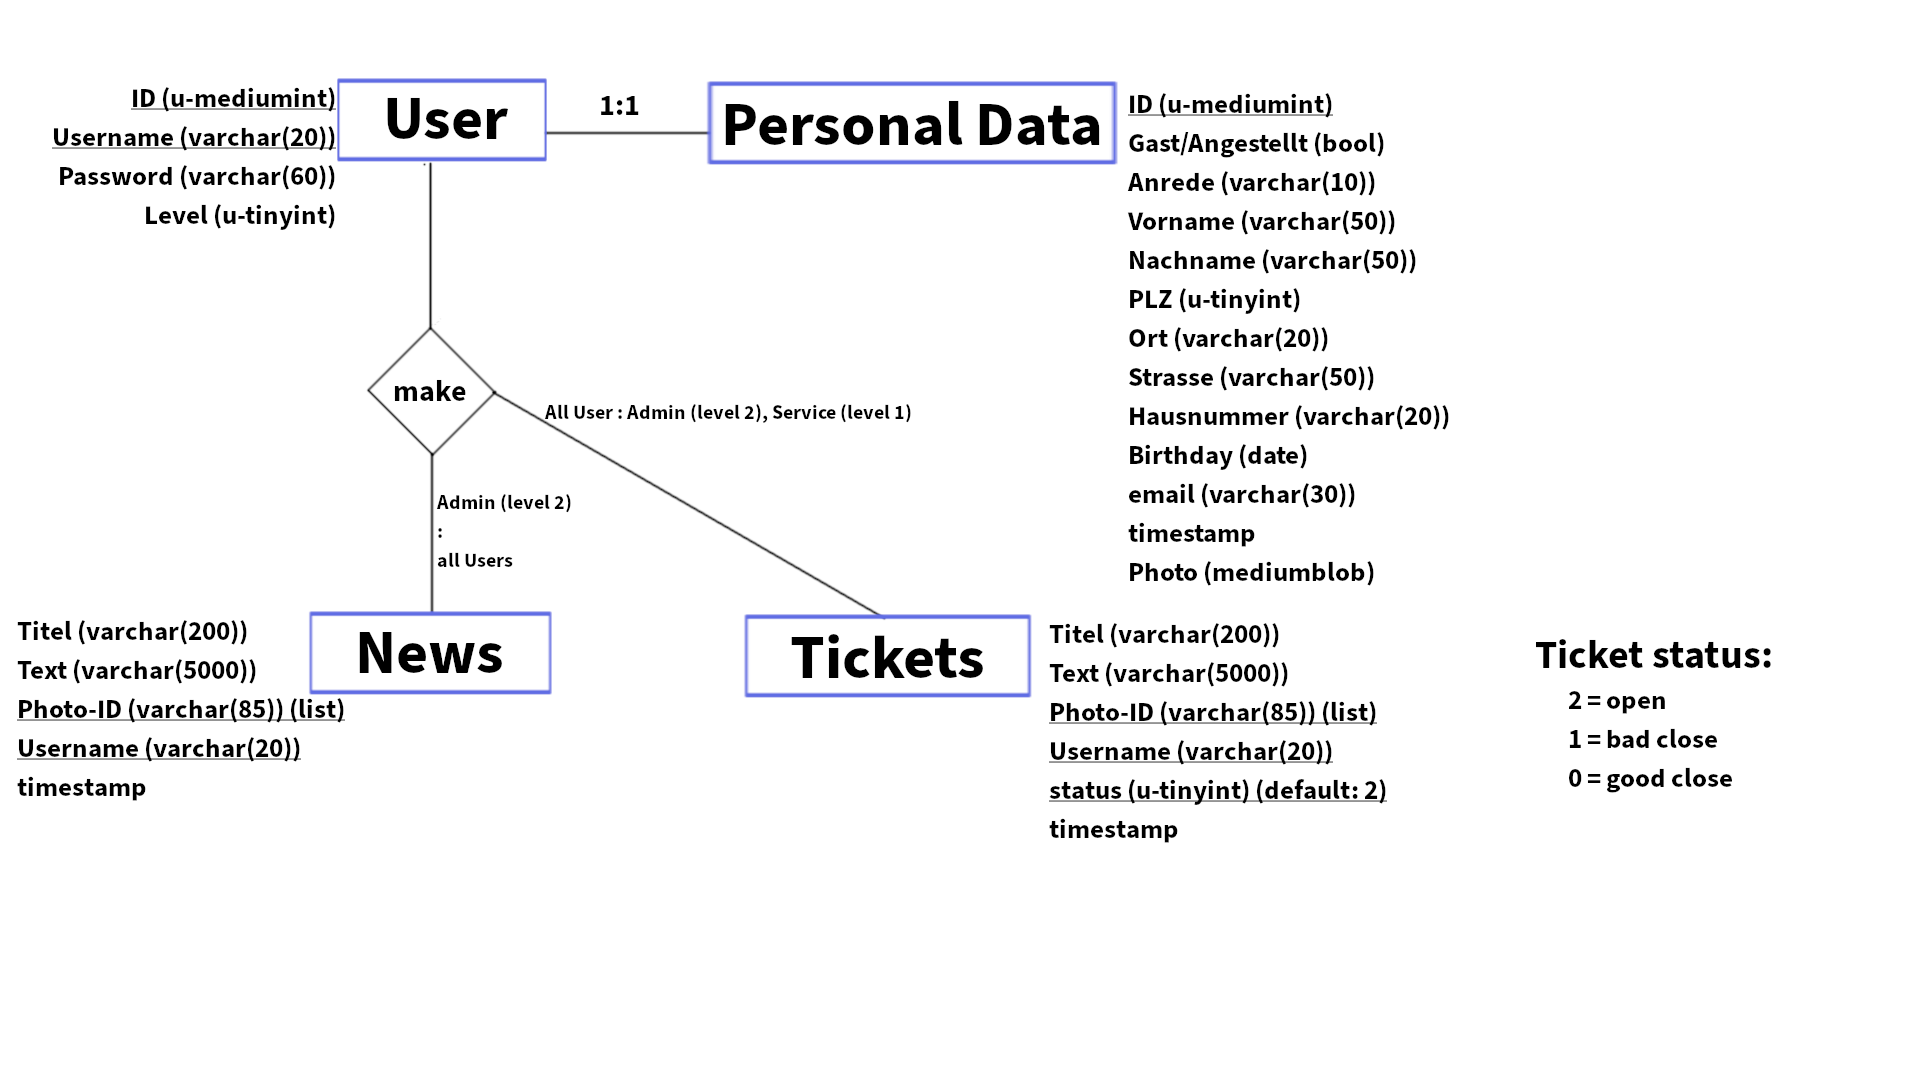
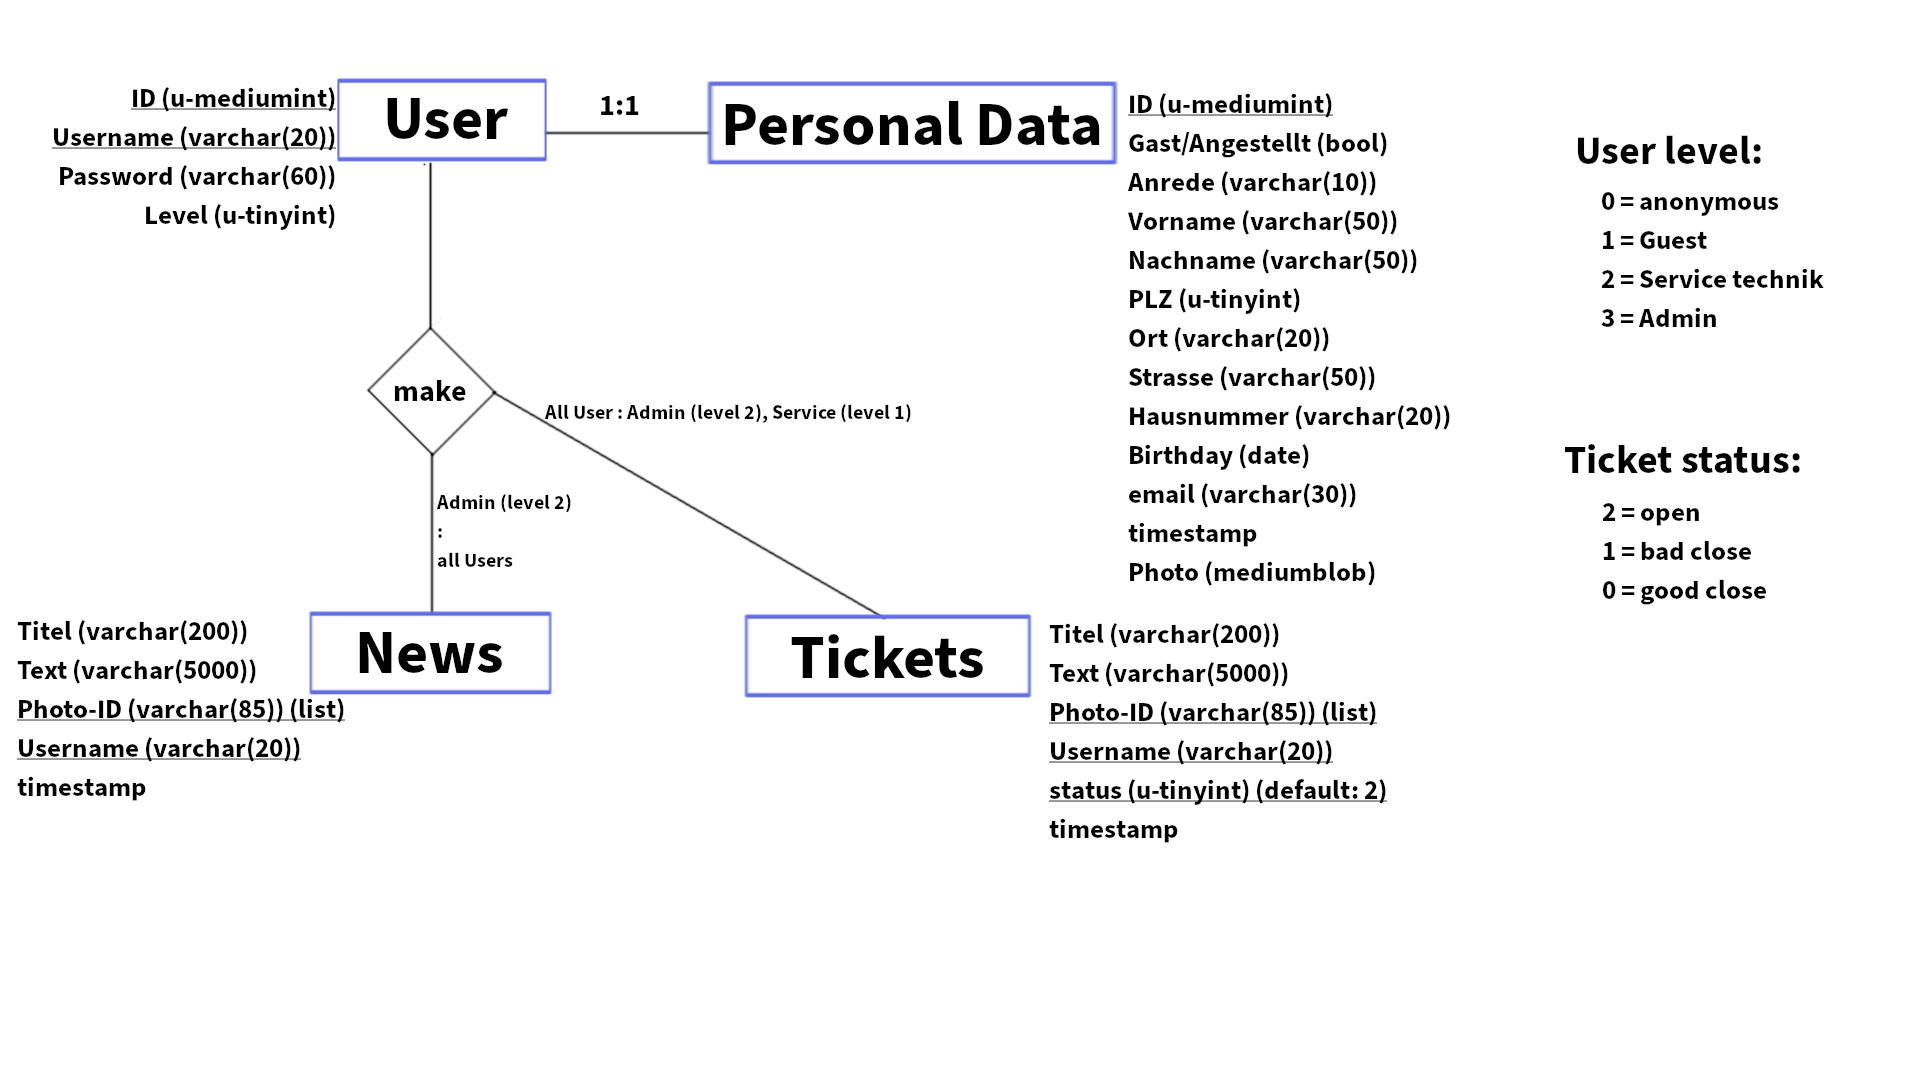
session + cookies + variable navbar
- added session + cookies
- upgraded navbar to become variable (user level)

diff --git a/htdocs/db-login.php b/htdocs/db-login.php
@@ -1,3 +1,4 @@
+<?php include('_BIN/console.php'); ?>
 <?php
 
     //header("Content-Type: text/html; charset=utf8");
@@ -10,8 +11,8 @@
         if ($username && $password) {//如果用户名和密码都不为空 If the username and password are not empty
             // Select HASHED password from the database and feed in entered password,
             // then use password_verify to determine if they are matched.
-            if ($stmt = $conn->prepare("SELECT password FROM user WHERE username=:uname")) {
-                $stmt->bindParam(":uname", $username);
+            if ($stmt = $conn->prepare("SELECT password FROM user WHERE username=:username")) {
+                $stmt->bindParam(":username", $username);
                 $stmt->execute();
 
                 // Result = the HASHED password, this will not give out a unhashed password.
@@ -20,6 +21,33 @@
                 // verify password.
                 if (password_verify($password, $result)) {
                   // password MATCHES (HASH) (LOGIN SUCCESSFUL!)
+
+                  // get level from database and set cookie
+                  $stmt = $conn->prepare("SELECT level FROM user WHERE username=:username");
+                  $stmt->bindParam(":username", $username);
+                  $stmt->execute();
+                  $result = $stmt->fetchColumn();
+
+                  switch ($result) {
+                    case '1':
+                      setcookie('level', '1', time()+3600*24*30);
+                      setcookie('user', $username, time()+3600*24*30);
+                      break;
+                    case '2':
+                      setcookie('level', '2', time()+3600*24);
+                      setcookie('user', $username, time()+3600*24);
+                      break;
+                    case '3':
+                      setcookie('level', '3', time()+3600*12);
+                      setcookie('user', $username, time()+3600*12);
+                      break;
+
+                    default:
+                      setcookie('level', '0', time()+3600*24);
+                      setcookie('user', 'error', time()+3600*24);
+                      break;
+                  }
+
                   $conn = null; // close connection
                   echo "<script>window.location.href='index.php?site=welcome';</script>";
                 } else {

diff --git a/htdocs/php/utils/navbar.php b/htdocs/php/utils/navbar.php
@@ -1,6 +1,31 @@
 <!-- Bootstrap Bundle with Popper -->
 <script src="https://cdn.jsdelivr.net/npm/bootstrap@5.1.3/dist/js/bootstrap.bundle.min.js" integrity="sha384-ka7Sk0Gln4gmtz2MlQnikT1wXgYsOg+OMhuP+IlRH9sENBO0LRn5q+8nbTov4+1p" crossorigin="anonymous"></script>
 
+<?php
+  $navItems = ['news','contact','login'];
+  switch ($_COOKIE['level']) {
+    case 0:
+      $navItems = ['news','contact','login'];
+      break;
+
+    case 1:
+      $navItems = ['news','contact','profile'];
+      break;
+
+    case 2:
+      $navItems = ['news','contact','tickets','profile'];
+      break;
+
+    case 3:
+      $navItems = ['news','contact','tickets','users','profile'];
+      break;
+
+    default:
+      // code...
+      break;
+  }
+?>
+
 <nav class="navbar navbar-expand-lg navbar-dark fixed-top">
   <div class="container">
     <a class="qd-btn-hover px-3 logo" href='index.php?site=home'>
@@ -12,15 +37,11 @@
     </button>
     <div class="collapse navbar-collapse" id="navmenu">
       <ul class="navbar-nav ms-auto">
-        <li class="nav-item">
-          <a href='index.php?site=news' class="nav-link qd-btn-hover">News </a>
-        </li>
-        <li class="nav-item">
-          <a href='index.php?site=contact' class="nav-link qd-btn-hover">Contact </a>
-        </li>
-        <li class="nav-item">
-          <a href='index.php?site=login' class="nav-link qd-btn-hover">Login </a>
-        </li>
+        <?php
+          foreach ($navItems as $key => $value) {
+            echo "<li class='nav-item'><a href='index.php?site=".$navItems[$key]."' class='nav-link qd-btn-hover' style='text-transform: capitalize'>".$navItems[$key]." </a></li>";
+          }
+        ?>
       </ul>
     </div>
   </div>

diff --git a/htdocs/db-registration.php b/htdocs/db-registration.php
@@ -61,6 +61,8 @@
               }
             } catch (exception $e) {
               $conn = null; // close connection
+              setcookie('level', '1', time()+3600*24*30);
+              setcookie('user', $username, time()+3600*24*30);
               echo "<script>window.location.href='index.php?site=welcome&';</script>";
             }
 
@@ -68,6 +70,8 @@
             if ($registrationProcess == 2) {
               // success!
               $conn = null; // close connection
+              setcookie('level', '1', time()+3600*24*30);
+              setcookie('user', $username, time()+3600*24*30);
               echo "<script>window.location.href='index.php?site=welcome';</script>";
             } else { echo "<script>window.location.href='index.php?site=error';</script>"; }
         } else {

diff --git a/htdocs/php/utils/session.php b/htdocs/php/utils/session.php
@@ -1,9 +1,15 @@
 <?php
 if (!isset($_SESSION['user'])) {   // if not logged in, in this session,
     session_start();
-    $_SESSION['user'] = "anonymous";
-    if (!isset($_COOKIE["level"])) {
-        setcookie("level", 0, time()+86400); // expires in 24h
+    if (isset($_COOKIE['user'])) {
+        $_SESSION['user'] = $_COOKIE['user'];
+    } else {
+      $_SESSION['user'] = 'anonymous';
+      // expires in 24h
+      setcookie('user', 'anonymous', time()+3600*24);
+      setcookie('level', 0, time()+3600*24);
     }
+
+
 }
 ?>

diff --git a/htdocs/php/sites/upload.php b/htdocs/php/sites/upload.php
@@ -1,3 +1,10 @@
+<?php
+  // news upload only for admins
+  if($_COOKIE['level'] < 3 && $_GET['site'] == 'news') {
+    // echo "<script>window.location.href='index.php?site=news-view';</script>";
+  }
+ ?>
+
 <div class="container-fluid">
   <div class="d-flex justify-content-center my-4">
     <form action='photo-upload.php?site=<?php echo $_GET['site'] ?>' name="upload" method=post enctype="multipart/form-data">

diff --git a/htdocs/php/sites/welcome.php b/htdocs/php/sites/welcome.php
@@ -1,3 +1,3 @@
 <div class="login-container welcome-con">
-  <h1><a class="submit-button container" style="text-decoration: none;" href='index.php?site=login'>WELCOME</a></h1>
+  <h1><a class="submit-button container" style="text-decoration: none;" href='index.php?site=home'>Welcome, <?php echo $_COOKIE['user'] ?></a></h1>
 </div>
